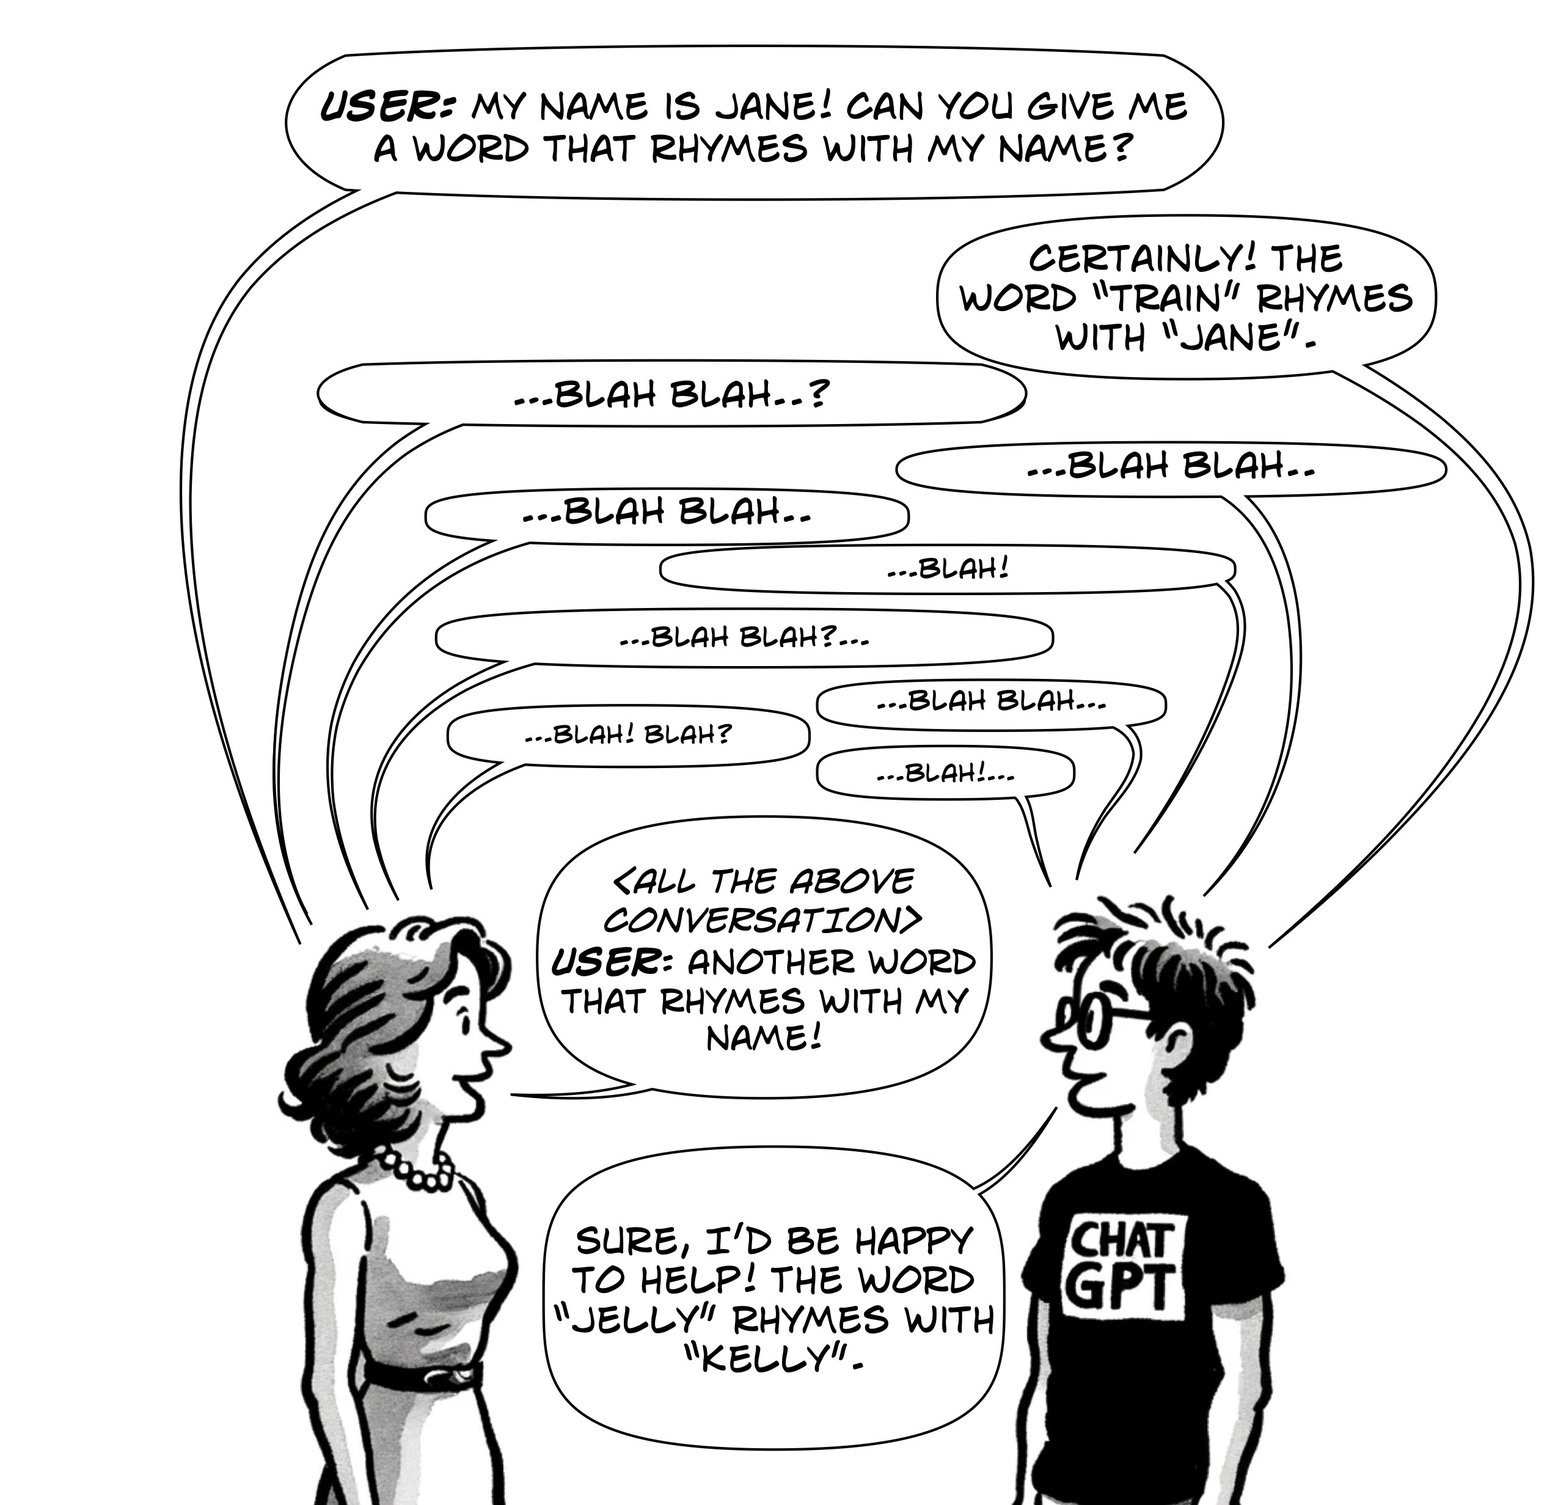
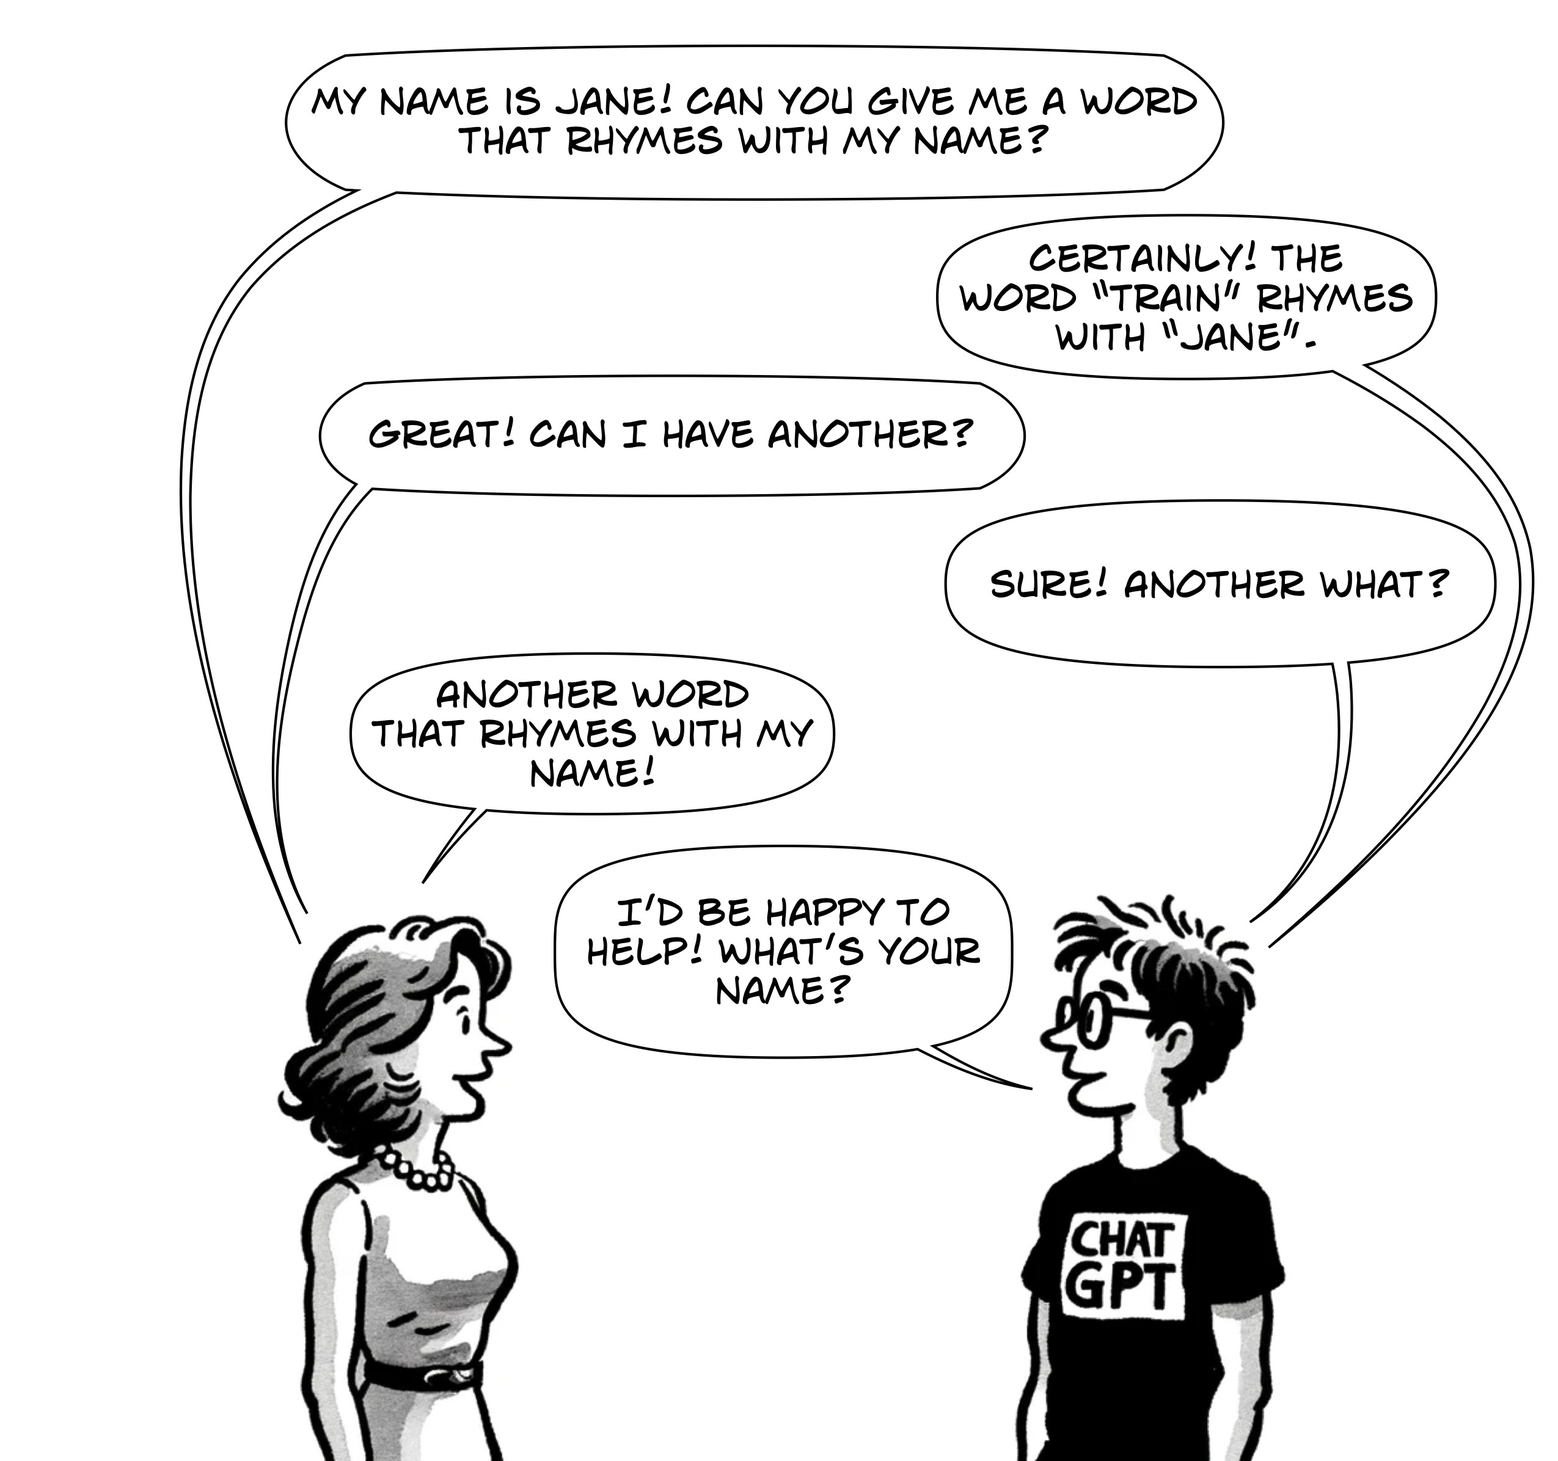
Edits and alt-text

diff --git a/blog/2023-11-26-stateless/index.md b/blog/2023-11-26-stateless/index.md
@@ -22,25 +22,25 @@ While the title of this article is a bit tongue-in-cheek, it is most certainly n
 :::
 
 
-![ChatGPT on the Tonight Show](social-card.jpg)
+![A black and white illustration of a late-night talk show setting, titled 'The ChatGPT Show.' A classic, boxy robot with visible joints and a round head featuring antenna and eyes, is depicted as the guest. It's gesturing with its hands as if in conversation. The host, a man in a suit with neat hair and a professional demeanor, sits across from the robot at a curved desk. Microphones and notes are on the desk, with an urban skyline visible through the window in the background.](social-card.jpg)
 
 <!-- truncate -->
 
-## Trick #1: Every time you talk to ChatGPT, you're not just sending it your question. You're also sending it the *entire* conversation up until that point.
+## Trick #1: Every time you talk to ChatGPT, you're not just sending it your question. You're also sending the *entire* conversation up until that point.
 
-Contrary to appearances, large language models (LLMs) like ChatGPT do not actually "remember" past interactions. The moment they finish "typing" out their response, they have no idea who you are or what you were talking about. Each time the model is prompted is **completely independent** from previous things you've asked.
+Contrary to appearances, large language models (LLMs) like ChatGPT do not actually "remember" past interactions. The moment they finish "typing" out their response, they have no idea who you are or what you were talking about. Each time the model is prompted, it is **completely independent** from previous questions you've asked.
 
 When ChatGPT seems to naturally recall details from earlier in the conversation, it is an illusion; the context of that dialogue is given back to ChatGPT every time you say something to it. This context enables them to build coherent, follow-on responses that appear to be normal conversations.
 
 However, without this context, ChatGPT would have no knowledge of what was previously discussed. Like all LLMs, ChatGPT is completely *stateless*, meaning that in the actual model itself, no information is maintained between inputs and outputs. All of this feeding of previous context into the current interaction is hidden behind the scenes in the ChatGPT web application.
 
-### A typical short conversation with ChatGPT might go like this.
+### A typical short conversation with ChatGPT might go like this:
 
-![How ChatGPT pretends to work](chatgpt-photosynthesis-1.jpeg)
+![A black and white comic strip depicts a conversation between a woman and a person wearing a 'CHATGPT' shirt. The woman asks, 'What is photosynthesis?' The person responds, 'Photosynthesis is the process by which plants use sunlight to synthesize nutrients from carbon dioxide and water.' She follows up with, 'Can humans do it?' to which the person replies, 'No, humans cannot perform photosynthesis.' The scene is simple with only the two characters and their speech bubbles.](chatgpt-photosynthesis-1.jpeg)
 
-### However, this is what is actually going on behind the scenes.
+### However, this is what is actually going on behind the scenes:
 
-![How ChatGPT pretends to work](chatgpt-photosynthesis-2.jpeg)
+![A black and white comic strip showing a dialogue between a woman and a person wearing a 'CHATGPT' shirt. The woman is labeled 'USER' and asks, 'What is photosynthesis?' The person labeled 'CHATGPT' answers, 'Photosynthesis is the process by which plants use sunlight to synthesize nutrients from carbon dioxide and water.' The woman, termed 'USER' again, follows with, 'Can humans do it?' and receives the reply, 'No, humans cannot perform photosynthesis.' Both characters are drawn as cartoons.](chatgpt-photosynthesis-2.jpeg)
 
 Notice that when the woman asks her second question, she has to reiterate the entire previous conversation, complete with tags on who said what. Can you imagine talking to a person where every time it was your turn to speak, you had to repeat the entire conversation up to that point? This is how ChatGPT (and all current LLMs) work. They require using their own outputs, plus the prompts that generated these outputs, to be prepended to the start of every new prompt from the user.
 
@@ -48,11 +48,11 @@ These models are termed "auto-regressive" due to their method of generating text
 
 In LLMs, what this means is that the model predicts the next word or token in a sequence based on *all* the words or tokens that have come before it. That's *all* of it, not just the current question being asked in a long back-and-forth chat conversation. In humans, we naturally maintain coherence and context in a conversation by just... participating in the conversation.
 
-However, while chats with ChatGPT mimic a conversational style, with each response building upon the previous dialogue, the moment ChatGPT finishes writing a response, it has no memory of what it just said. Take a look at what would happen with this same conversation without the *entire discourse* being back fed to ChatGPT behind the scenes:
+However, while chats with ChatGPT mimic a conversational style, with each response building upon the previous dialogue, the moment ChatGPT finishes writing a response, it has no memory of what it just said. Take a look at what would happen with this same conversation without the *entire discourse* being fed back to ChatGPT behind the scenes:
 
-### How ChatGPT would respond without being fed the whole conversation.
+### How would ChatGPT respond without being fed the whole conversation?
 
-![How ChatGPT would respond without being fed the whole conversation:](chatgpt-photosynthesis-3.jpeg)
+![A black and white comic panel featuring a conversation between a woman and a person wearing a 'CHATGPT' shirt. The woman asks, 'What is photosynthesis?' The person replies, 'Photosynthesis is the process by which plants use sunlight to synthesize nutrients from carbon dioxide and water.' The woman then asks, 'Can humans do it?' to which the person humorously responds, 'Can humans do what?' The characters are depicted in a lighthearted, cartoonish style, with the focus on their dialogue.](chatgpt-photosynthesis-3.jpeg)
 
 ## Trick #2: As your conversation grows, ChatGPT will quietly remove the oldest parts from the beginning.
 
@@ -64,27 +64,27 @@ What this means is that the GPT-3.5 model can comprehend a maximum of 4,096 toke
 
 There's often confusion about what the token limit means regarding input and output: can we give ChatGPT 3,000 words and expect it to be able to produce 3,000 words back? The answer is unfortunately no; the context length of 4,096 tokens covers both the input (prompt) and the output (response). This results in a trade-off where we have to balance the amount of information we give in a prompt with the length of the response we get from the model.
    
-1. *Input (Prompt):* A longer prompt leaves less room for a meaningful response; if the input uses 4,000 tokens, the response can only be 96 tokens long to stay within the token limit. 
+1. *Input (prompt):* A longer prompt leaves less room for a meaningful response; if the input uses 4,000 tokens, the response can only be 96 tokens long to stay within the token limit. 
 
-2. *Output (Response):* A shorter prompt could lead to a longer response as long as the combined length doesn't exceed the token limit, but you may not be able to include information in the prompt.
+2. *Output (response):* A shorter prompt could lead to a longer response as long as the combined length doesn't exceed the token limit, but you may not be able to include information in the prompt.
 
 ### The chat problem
 
 Do you see where this becomes problematic? Previously, we saw how the entire conversation has to be fed to the model so that it remembers what has already been discussed. Combining this with the context length, the result is that as you talk more and more with ChatGPT, eventually the combined totals of what you've asked and what it has replied will exceed the 4,096 token limit, and it won't be able to answer any more.
 
-### A visualization of ChatGPT simultaneously printing and scanning back in the entire conversation as it grows to extreme proportions.
+### A visualization of ChatGPT simultaneously printing and scanning back in the entire conversation as it grows to extreme proportions
 
-![ChatGPT accumulating a very long chat](rolled-chatgpt.jpg)
+![An illustration showcasing a printer labeled 'ChatGPT' in the foreground, and a scanner in the background, with a large loop of paper moving between them. The printer is actively printing the paper, which then rises up, forms a significant loop, and clearly feeds into the scanner. The paper should be filled with printed text, resembling pages of a book. The drawing should vividly depict the paper's journey from the 'ChatGPT' printer, through the loop, and into the scanner.](rolled-chatgpt.jpg)
 
 #### Conversation Length and Token Limitations in LLMs
    
-So how does ChatGPT handle this limitation? As your conversation with it grows, the number of tokens eventually exceeds the model's context window (e.g., 4,096 tokens for GPT-3.5). ChatGPT invisibly removes the oldest parts of the conversation to remain within the limit. This method—using a rolling window of context—is certainly one of the easiest to implement, but oftentimes it is not the perfect solution. Some chat alternative front-ends like [TypingMind](https://www.typingmind.com/) both warn you when the context limit has been reached and allow you to manually delete sections of the chat that you don't need anymore. This lets you choose what information you want to remain in the chat, and has the bizarre philosophical effect of "editing the memory" of GPT.
+So how does ChatGPT handle this limitation? As your conversation with it grows, the number of tokens eventually exceeds the model's context window (e.g., 4,096 tokens for GPT-3.5). ChatGPT invisibly removes the oldest parts of the conversation to remain within the limit. This method-using a rolling window of context-is certainly one of the easiest to implement, but oftentimes it is not the perfect solution. Some chat alternative front-ends, like [TypingMind](https://www.typingmind.com/) both warn you when the context limit has been reached and allow you to manually delete sections of the chat that you don't need anymore. This lets you choose what information you want to remain in the chat and has the bizarre philosophical effect of "editing the memory" of GPT.
 
 For your average user using the web version of ChatGPT, what this means is that the longer your conversation, the sooner ChatGPT will start forgetting things you said at the beginning of the chat.
 
-### Another visualization of ChatGPT trimming away the start of your conversation behind the scenes.
+### Another visualization of ChatGPT trimming away the start of your conversation behind the scenes
 
-![ChatGPT accumulating a very long chat](chatgpt-cutting.jpg)
+![A cartoon depicting a woman wearing a "ChatGPT" shirt, actively engaged in cutting a large roll of paper on the floor. The paper, covered in text like a book, is visibly being cut by the scissors in the woman's hands. The cut is halfway through the paper, illustrating the action of cutting. The cartoon should emphasize the humorous situation, with the woman's expression showing focus and the absurdly long paper being sliced by the scissors in a detailed and exaggerated style.](chatgpt-cutting.jpg)
 
 It's good to be mindful of this restriction, especially when referring back to earlier parts of a conversation that might have been truncated due to token limitations—the LLM will not be able to recall these anymore, but the web version of ChatGPT will not tell you. There's also always the risk that it could hallucinate answers based on other parts of the conversation if the beginning is trimmed off.
 
@@ -92,19 +92,19 @@ Let's take another look at what happens in a more complex yet sillier chat inter
 
 ### Another typical but silly conversation with ChatGPT.
 
-![How ChatGPT pretends to work](chatgpt-name-1.jpeg)
+![A black and white comic panel depicts a woman and a person wearing a 'CHATGPT' shirt having a conversation about rhymes. The woman says, 'My name is Jane! Can you give me a word that rhymes with my name?' The person responds, 'Certainly! The word "train" rhymes with "Jane".' She asks for another, and they reply, 'Of course! The word "plane" rhymes with "Jane".' She requests yet another, and the person concludes, '"Brain" rhymes with "Jane" as well.' The drawing style is playful and cartoonish.](chatgpt-name-1.jpeg)
 
 ### Again, this is what is actually going on behind the scenes.
 
-![How ChatGPT pretends to work](chatgpt-name-2.jpeg)
+![A black and white comic strip portrays a dialogue between a woman and a person wearing a 'CHATGPT' shirt. The woman is labeled 'USER' and asks, 'My name is Jane! Can you give me a word that rhymes with my name?' The 'CHATGPT' character responds, 'Certainly! The word "train" rhymes with "Jane".' The 'USER' asks for another word, and 'CHATGPT' says, 'Of course! The word "plane" rhymes with "Jane".' The 'USER' requests another, prompting 'CHATGPT' to conclude with, '"Brain" rhymes with "Jane".](chatgpt-name-2.jpeg)
 
 ### Now let's suppose we have a long enough conversation that the beginning is trimmed off. ChatGPT might either state that it's forgotten the name entirely or hallucinate it.
 
-![How ChatGPT pretends to work](chatgpt-name-4.jpeg)
+![A black and white comic strip displays a woman labeled 'USER' asking a person in a 'CHATGPT' shirt for a word that rhymes with her name, Jane. Initially, 'CHATGPT' provides 'train' as a rhyming word. A series of speech bubbles follow with the text '…blah blah…?' and '…blah!' indicating an inaudible conversation. In the last panel, the 'USER' asks for another rhyming word, and 'CHATGPT' amusingly offers 'jelly,' humorously mispronouncing 'Jane' as 'Kelly.' The artwork is lighthearted.](chatgpt-name-3.jpeg)
 
 ### And finally, if we try to escape this problem by not feeding ChatGPT the entire conversation, it will forget it all the moment it finishes generating each answer.
 
-![How ChatGPT pretends to work](chatgpt-name-3.jpeg)
+![A black and white comic strip features a woman and a person wearing a 'CHATGPT' shirt. The woman says, 'My name is Jane! Can you give me a word that rhymes with my name?' The person replies, 'Certainly! The word "train" rhymes with "Jane".' She expresses delight and asks for another, to which the person humorously responds, 'Sure! Another what?' She clarifies she wants another word that rhymes with her name, and the person cheekily responds, 'I'd be happy to help! What's your name?'](chatgpt-name-4.jpeg)
 
 Since ChatGPT's debut in November 2022, GPT-4 has been released with both 8,192 and 32,768 context lengths. This made things a lot better in terms of tracking long conversations, and in November 2023, GPT-4 Turbo was released with a 128k context length. Things are looking increasingly good for these models' ability to track long conversations. However, despite GPT-4 Turbo's massive amount of context, it still has a completion limit of 4,096 tokens, so it will always generate a maximum of about 3,000 words.
 
@@ -120,10 +120,12 @@ However, the stateless nature also means these models cannot remember user prefe
 
 ## Getting a bit more technical
 
-Prominent examples of such layers include [LangChain](https://www.langchain.com/), [LlamaIndex](https://www.llamaindex.ai/), and [Haystack](https://haystack.deepset.ai/). These layers add flexibility in managing the limited context that LLMs can handle by offering various strategies. For instance, when approaching the token limit, choices must be made: Should a rolling window approach be used to discard older text like in the web ChatGPT, or should GPT be utilized to summarize previous information? Is it more important to retain the initial context, like a source article, while removing less critical middle or later sections? Alternatively, should retrieval augmented generation (RAG, more on that in a later blog) techniques be employed to integrate external data into the token stream? These decisions vary based on the specific goals of the implementation. The most effective architectures often consist of specialized components interwoven to achieve a wide array of practical outcomes, allowing for more nuanced and effective user interactions.
+Prominent examples of such layers include [LangChain](https://www.langchain.com/), [LlamaIndex](https://www.llamaindex.ai/), and [Haystack](https://haystack.deepset.ai/). These layers add flexibility to managing the limited context that LLMs can handle by offering various strategies. For instance, when approaching the token limit, choices must be made: Should a rolling window approach be used to discard older text, like in the web ChatGPT, or should GPT be utilized to summarize previous information? Is it more important to retain the initial context, like a source article, while removing less critical middle or later sections? Alternatively, should retrieval augmented generation (RAG-more on that in a later blog) techniques be employed to integrate external data into the token stream? These decisions vary based on the specific goals of the implementation. The most effective architectures often consist of specialized components interwoven to achieve a wide array of practical outcomes, allowing for more nuanced and effective user interactions.
 
 
-![A confused stateless robot](confused.jpg)
+![A cartoon depicting a robot sitting at a desk with an old-fashioned typewriter. The robot appears confused, as if it's trying to remember something. It's looking upwards with a thoughtful expression, one metal hand hovering over the typewriter keys. The scene is in black and white, capturing the essence of a classic cartoon, with simple lines and a humorous touch.
+
+](confused.jpg)
 
 :::info[Key Takeaways]
 
@@ -135,11 +137,11 @@ Prominent examples of such layers include [LangChain](https://www.langchain.com/
 
 - If you're having a lengthy conversation on the ChatGPT web app and it relies on information from the start, consider copying and pasting the necessary parts into a new chat to avoid losing crucial context.
 
-- Tools like [TypingMind](https://www.typingmind.com/) allow users to selectively cut unimportant parts of the conversation, and even direct the chat from a selected point. This ability to manually manage the conversation can provide a more controlled experience with ChatGPT.
+- Tools like [TypingMind](https://www.typingmind.com/) allow users to selectively cut unimportant parts of the conversation and even direct the chat from a selected point. This ability to manually manage the conversation can provide a more controlled experience with ChatGPT.
 
-- ChatGPT, and other similar models like GPT-3 and GPT-4, are designed to be stateless for a variety of reasons such as scalability, efficiency, and data privacy. 
+- ChatGPT and other similar models, like GPT-3 and GPT-4, are designed to be stateless for a variety of reasons, such as scalability, efficiency, and data privacy. 
 
-- While stateless nature makes these models safe and manageable at scale, the lack of memory and contextual retention is a limitation when it comes to personalization and continuous learning. Layered implementations like [LangChain](https://www.langchain.com/), [LlamaIndex](https://www.llamaindex.ai/), and [Haystack](https://haystack.deepset.ai/) help in managing this constraint.
+- While their stateless nature makes these models safe and manageable at scale, the lack of memory and contextual retention is a limitation when it comes to personalization and continuous learning. Layered implementations like [LangChain](https://www.langchain.com/), [LlamaIndex](https://www.llamaindex.ai/), and [Haystack](https://haystack.deepset.ai/) help in managing this constraint.
 
 - As more advanced versions like GPT-4 with 8,192 and 32,768 context lengths and GPT-4 Turbo with a 128k context length come up, it enables longer conversations. However, there will always be a completion limit, currently at about 3,000 words (4,096 tokens) for GPT-4 Turbo. This completion limit may come as a surprise given the much larger [128k context of the model.](https://platform.openai.com/docs/models/gpt-4-and-gpt-4-turbo)
 
